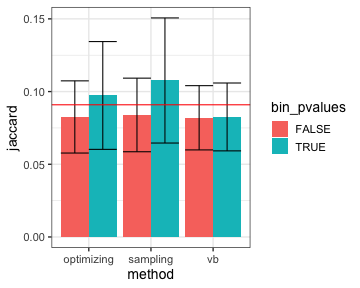
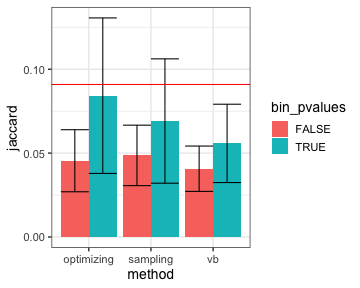
updated vignette

diff --git a/vignettes/pisquared-extended.md b/vignettes/pisquared-extended.md
@@ -49,16 +49,16 @@ marg_results
 ## # A tibble: 390 x 11
 ##      pi0 alpha beta_minus_one  beta alpha_sd beta_sd pi0_sd true_pi1      pi1   rep qvalue_pi1
 ##    <dbl> <dbl>          <dbl> <dbl>    <dbl>   <dbl>  <dbl>    <dbl>    <dbl> <int>      <dbl>
-##  1 1.00  0.500          1.00   2.00    0.258    2.24 0.500     0.001 7.87e-11     1     0.0503
-##  2 0.994 0.502          1.01   2.01    0.221    1.96 0.159     0.001 5.82e- 3     2    -0.106 
-##  3 0.984 0.603          1.07   2.07    0.218    1.86 0.131     0.001 1.58e- 2     3    -0.0303
-##  4 0.995 0.488          1.03   2.03    0.230    2.71 0.157     0.001 5.49e- 3     4    -0.244 
-##  5 0.993 0.576          0.992  1.99    0.293    1.83 0.342     0.001 6.81e- 3     5     0.101 
-##  6 0.990 0.408          0.995  1.99    0.191    2.00 0.0356    0.001 1.00e- 2     6    -0.0221
-##  7 0.973 0.488          1.02   2.02    0.161    1.85 0.0405    0.001 2.65e- 2     7    -0.0593
-##  8 0.955 0.845          0.919  1.92    0.230    1.15 0.196     0.001 4.51e- 2     8     0.101 
-##  9 1.00  0.500          1.00   2.00    0.262    1.97 0.500     0.001 1.50e-10     9    -0.289 
-## 10 0.994 0.303          0.984  1.98    0.159    2.18 0.0272    0.001 6.27e- 3    10     0.0833
+##  1 0.963 0.659          0.975  1.98    0.207    1.70 0.0888    0.001 3.67e- 2     1    0.0505 
+##  2 1.00  0.500          1.00   2.00    0.264    2.19 0.500     0.001 1.03e-10     2   -0.00131
+##  3 0.980 0.627          0.958  1.96    0.215    2.25 0.127     0.001 2.04e- 2     3    0.0647 
+##  4 1.00  0.500          1.00   2.00    0.265    2.38 0.500     0.001 1.85e-10     4   -0.00252
+##  5 0.990 0.421          1.00   2.00    0.205    1.84 0.0459    0.001 9.63e- 3     5   -0.0815 
+##  6 1.00  0.500          1.00   2.00    0.260    2.18 0.500     0.001 2.62e-10     6   -0.0804 
+##  7 1.00  0.500          1.00   2.00    0.267    2.16 0.500     0.001 1.77e-10     7   -0.0471 
+##  8 1.00  0.500          1.00   2.00    0.263    2.47 0.500     0.001 9.83e-11     8   -0.00610
+##  9 0.987 0.264          1.00   2.00    0.107    2.15 0.0152    0.001 1.28e- 2     9    0.00511
+## 10 0.978 0.712          1.04   2.04    0.241    1.80 0.197     0.001 2.20e- 2    10    0.0374 
 ## # … with 380 more rows
 ```
 
@@ -67,8 +67,10 @@ Both Storey's qvalue and our model based approach give approximately unbiased es
 ```r
 res_gathered = marg_results %>% select(true_pi1, model_based = pi1, qvalue = qvalue_pi1) %>% 
   gather(method, est_pi1, -true_pi1) 
-res_gathered  %>% ggplot(aes(true_pi1, est_pi1, col = method, shape = method)) + geom_point(alpha = 0.5, size = 2, position = position_dodge(width = 0.02)) + 
-  geom_abline(intercept = 0, slope = 1) + xlab("True pi1") + ylab("Estimated pi1") + theme(legend.position = c(0.25,.8))
+res_gathered  %>% ggplot(aes(true_pi1, est_pi1, col = method, shape = method)) + 
+  geom_point(alpha = 0.5, size = 2, position = position_dodge(width = 0.02)) + 
+  geom_abline(intercept = 0, slope = 1) + xlab("True pi1") + ylab("Estimated pi1") + 
+  theme(legend.position = c(0.25,.8))
 ```
 
 ![plot of chunk vary-true-pi0](figs/vary-true-pi0-1.png)
@@ -80,7 +82,8 @@ err_summary = res_gathered %>%
   group_by(method, true_pi1) %>% 
   summarize(RMSE = sqrt(mean((true_pi1 - est_pi1)^2))) %>% 
   ungroup()
-err_summary %>% ggplot(aes(true_pi1, RMSE, col = method, shape = method)) + geom_point(size = 2) + expand_limits(y = 0) + theme(legend.position = c(0.8,.8))
+err_summary %>% ggplot(aes(true_pi1, RMSE, col = method, shape = method)) + geom_point(size = 2) + 
+  expand_limits(y = 0) + theme(legend.position = c(0.8,.8))
 ```
 
 ![plot of chunk rmse-comparison](figs/rmse-comparison-1.png)
@@ -89,14 +92,16 @@ alpha and beta are estimated quite robustly:
 
 ```r
 marg_results %>% 
-  ggplot(aes(true_pi1, alpha)) + geom_point(alpha = 0.3, size = 3) + geom_hline(yintercept = true_alpha) + xlab("True pi1") + ylab("Estimated alpha")
+  ggplot(aes(true_pi1, alpha)) + geom_point(alpha = 0.3, size = 3) + geom_hline(yintercept = true_alpha) + 
+  xlab("True pi1") + ylab("Estimated alpha")
 ```
 
 ![plot of chunk alpha-beta-estimation](figs/alpha-beta-estimation-1.png)
 
 ```r
 marg_results %>% 
-  ggplot(aes(true_pi1, beta)) + geom_point(alpha = 0.3, size = 3) + geom_hline(yintercept = true_beta) + xlab("True pi1") + ylab("Estimated beta")
+  ggplot(aes(true_pi1, beta)) + geom_point(alpha = 0.3, size = 3) + geom_hline(yintercept = true_beta) + 
+  xlab("True pi1") + ylab("Estimated beta")
 ```
 
 ![plot of chunk alpha-beta-estimation](figs/alpha-beta-estimation-2.png)
@@ -131,18 +136,41 @@ true_jaccard
 ## [1] 0.09090909
 ```
 
-pisquared can use three methods provided by stan: maximum likelihood estimation "optimizing", variational Bayes ("vb") and Markov chain Monte Carlo ("sampling"). The fastest fitting approach is to do maximum likelihood estimation via LBFGS. 
+pisquared can use three methods provided by stan: maximum likelihood estimation ("optimizing"), variational Bayes ("vb") and Markov chain Monte Carlo ("sampling"). The fastest fitting approach is to do maximum likelihood estimation via LBFGS. 
+
+```r
+methods = c("optimizing", "vb", "sampling")
+results = foreach(method = methods, .combine = bind_rows) %do% {
+  foreach(bin_pvalues = c(T,F), .combine = bind_rows) %dopar% { 
+    cpu_time = system.time( 
+      pi2_result <- pi2_estimator(p1,
+                               p2,
+                               method = method, 
+                               bin_pvalues = bin_pvalues)
+    )
+    marginal_pi0 = c(rowSums(pi2_result$pi)[1], colSums(pi2_result$pi)[1])
+    tibble( method = method, 
+            bin_pvalues = bin_pvalues,
+            jaccard = pi2_result$jaccard, 
+            jaccard_sd = pi2_result$jaccard_sd, 
+            pi0_1 = marginal_pi0[1],
+            pi0_2 = marginal_pi0[2], 
+            cpu_time = cpu_time[1])
+  }
+}
+results
+```
 
 ```
 ## # A tibble: 6 x 7
 ##   method     bin_pvalues jaccard jaccard_sd pi0_1 pi0_2 cpu_time
 ##   <chr>      <lgl>         <dbl>      <dbl> <dbl> <dbl>    <dbl>
-## 1 optimizing TRUE         0.0973     0.0371 0.869 0.622    0.747
-## 2 optimizing FALSE        0.0825     0.0248 0.905 0.541    0.148
-## 3 vb         TRUE         0.0826     0.0233 0.886 0.636   30.2  
-## 4 vb         FALSE        0.0820     0.0221 0.902 0.537    3.51 
-## 5 sampling   TRUE         0.108      0.0430 0.850 0.622  425.   
-## 6 sampling   FALSE        0.0839     0.0253 0.903 0.536   39.1
+## 1 optimizing TRUE         0.0842     0.0464 0.811 0.638    0.765
+## 2 optimizing FALSE        0.0454     0.0185 0.913 0.549    0.154
+## 3 vb         TRUE         0.0558     0.0234 0.906 0.645   24.6  
+## 4 vb         FALSE        0.0407     0.0135 0.924 0.563    3.42 
+## 5 sampling   TRUE         0.0691     0.0371 0.858 0.638  446.   
+## 6 sampling   FALSE        0.0486     0.0180 0.913 0.546   39.1
 ```
 
 The red line here shows the true Jaccard sharing index. binning pvalues does come at a cost in accuracy. 
@@ -181,7 +209,7 @@ marginal_pi1
 ```
 
 ```
-## [1] 0.09548413 0.45888194
+## [1] 0.08657623 0.45102022
 ```
 
 Plot fitted marginal p-value distributions (estimated vs true)
@@ -255,7 +283,9 @@ jacc_results
 Plot the results: we see pisquared provides unbiased and accurate sharing estimates. 
 
 ```r
-jacc_results %>% ggplot(aes(actual_jacc, est_jaccard)) + geom_point() + xlab("Actual sharing (Jaccard)") + ylab("Estimated sharing (Jaccard)") + geom_abline(intercept = 0, slope = 1)
+jacc_results %>% ggplot(aes(actual_jacc, est_jaccard)) + geom_point() + 
+  xlab("Actual sharing (Jaccard)") + ylab("Estimated sharing (Jaccard)") + 
+  geom_abline(intercept = 0, slope = 1)
 ```
 
 ![plot of chunk true-v-est-jaccard](figs/true-v-est-jaccard-1.png)
